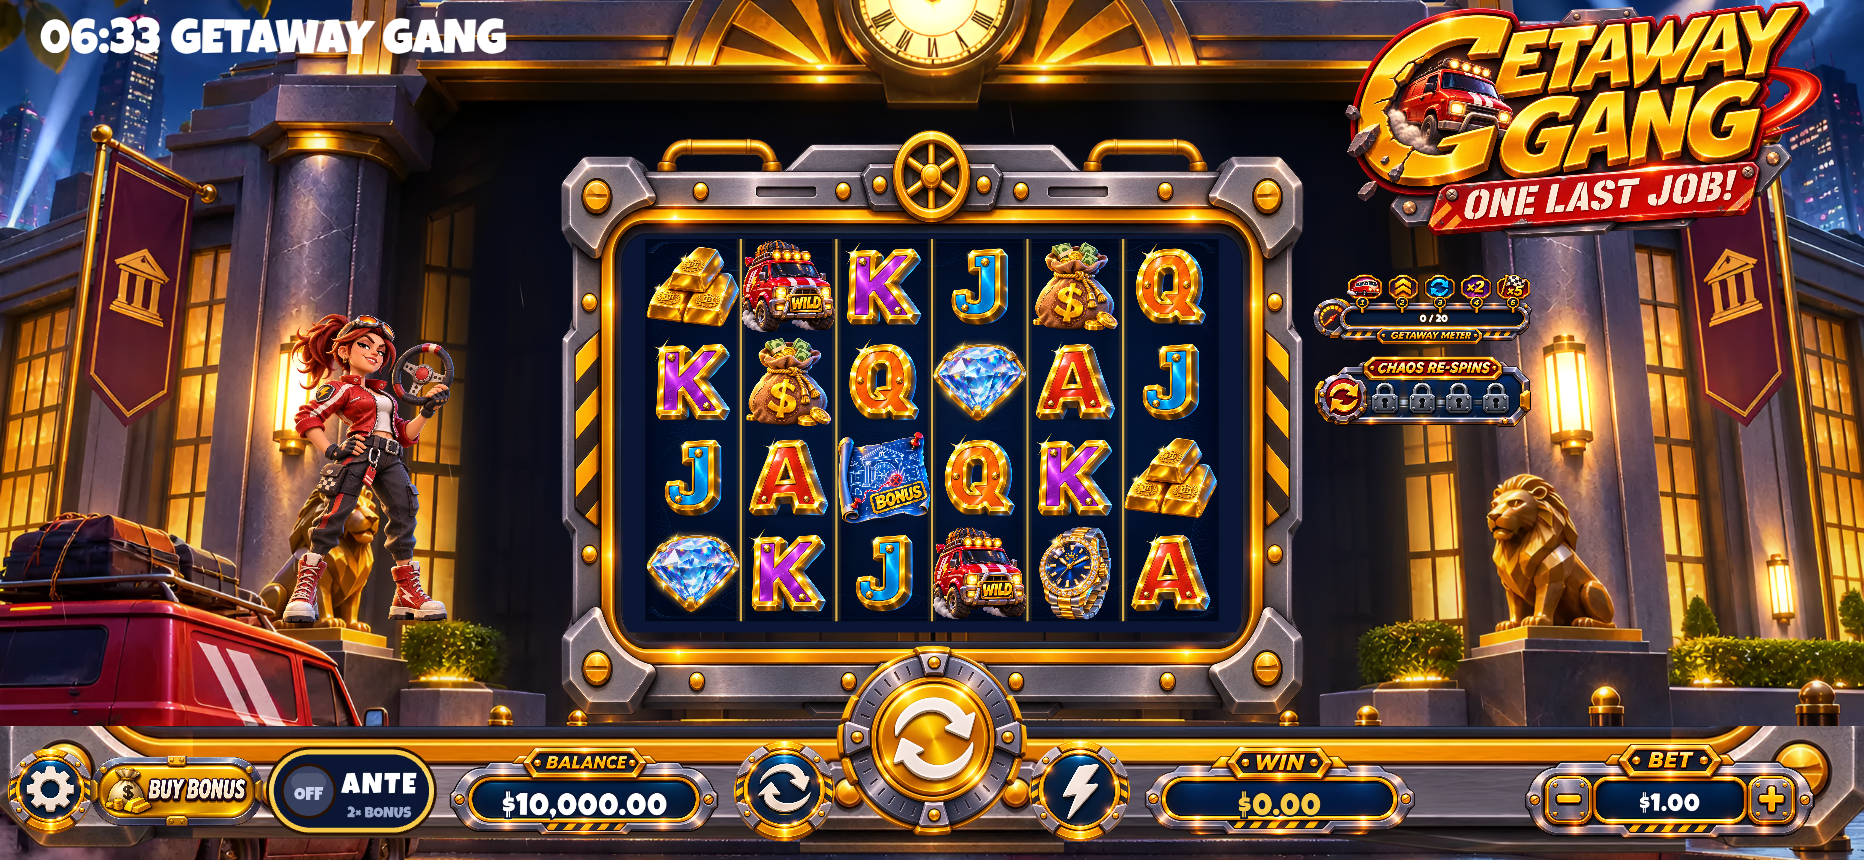
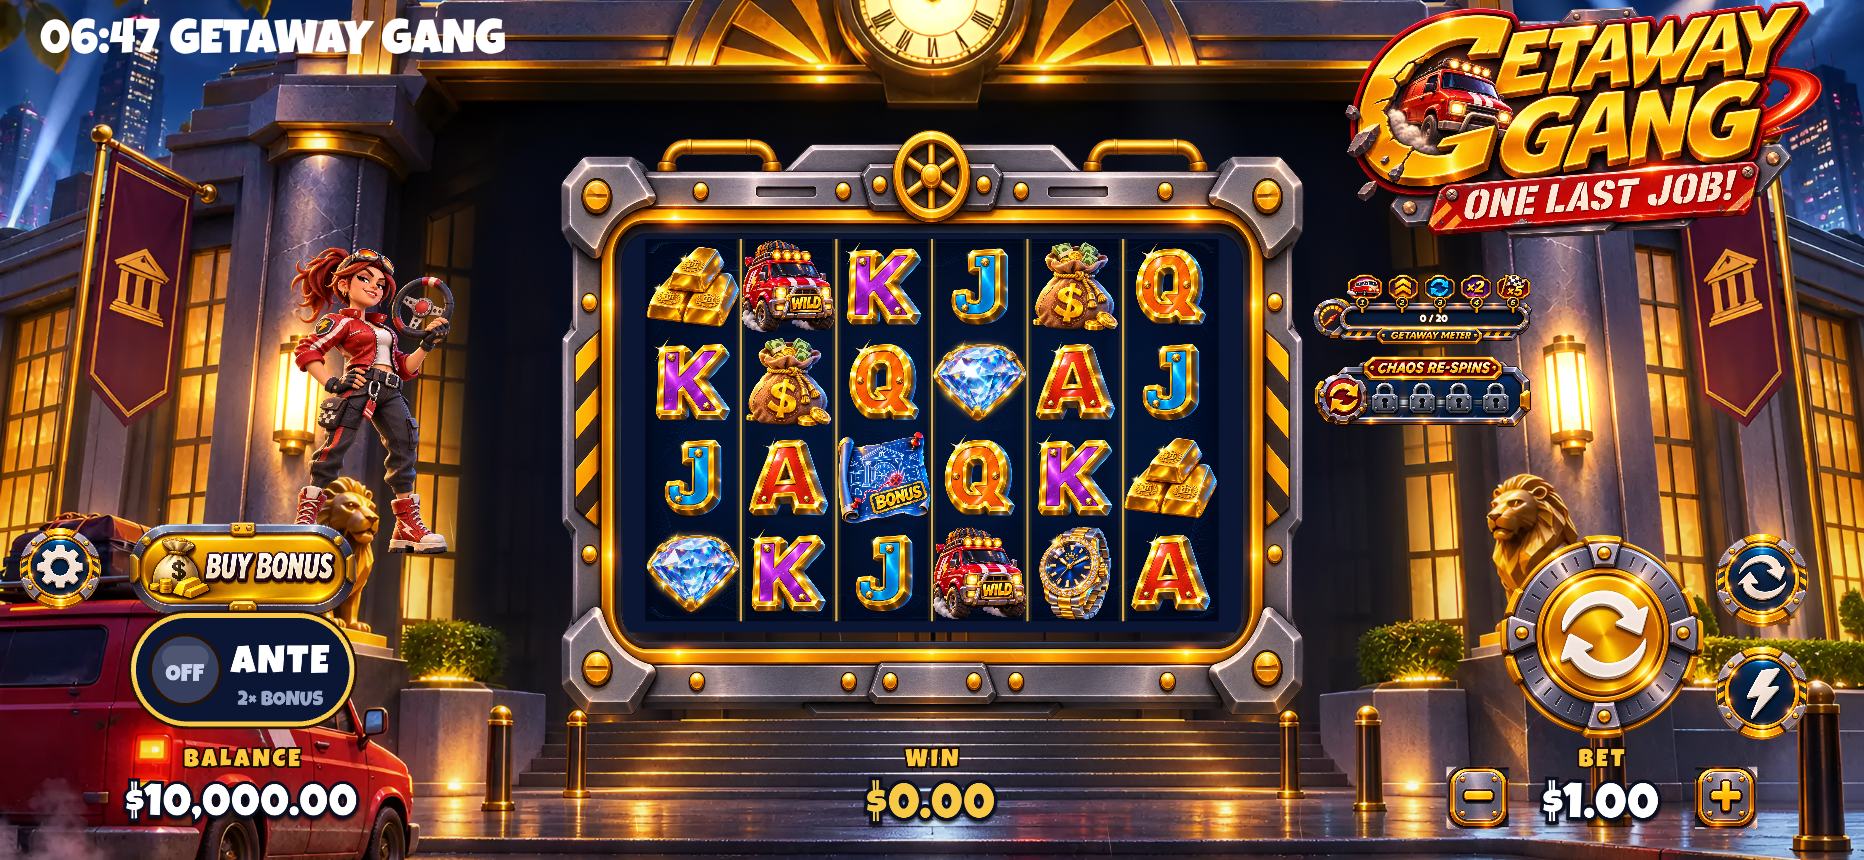
Bet controls as corner clusters (layout after Meta Gaming's Swamp King)
No rail across the screen: the reels and art keep the full height. Desktop/landscape: left corner
settings, Buy Bonus, ANTE, BALANCE; right corner SPIN with autoplay/turbo stacked, BET with -/+;
WIN under the reels. Portrait: Buy Bonus/ANTE left, SPIN cluster right, BALANCE | WIN | BET row
(buttons still fold away in the bonus; free-spin counter in the middle). Values drawn plain
(small gold label over the amount, no plate). Only the arrangement follows the reference: all art
is the game's own. Crew mascot raised clear of the left cluster.

Claude-Session: https://claude.ai/code/session_016UNRkfZFjaADWyy4kQzaUS

Changed region(s): [[0.0, 0.2721, 1.0, 0.9977], [0.0622, 0.0302, 0.28, 0.0605], [0.4979, 0.4233, 0.529, 0.4535]]

diff --git a/frontend/getaway_gang/src/components/GGLayoutPortrait.svelte b/frontend/getaway_gang/src/components/GGLayoutPortrait.svelte
@@ -20,9 +20,7 @@
 	import type { LayoutUiProps } from 'components-ui-pixi/src/types';
 	import { getContext } from 'components-ui-pixi/src/context';
 	import { UI_BASE_SIZE } from 'components-ui-pixi/src/constants';
-	import GGConsole from './GGConsole.svelte';
 	import ButtonAnte from './ButtonAnte.svelte';
-	import { BET_ZONE } from '../game/betConsole';
 
 	const props: LayoutUiProps = $props();
 	const context = getContext();
@@ -48,11 +46,13 @@
 
 	const std = $derived(context.stateLayoutDerived.mainLayoutStandard());
 	const cx = $derived(std.width * 0.5);
-	const RAIL_H = 134;
-	// clear of the phone's home indicator / rounded corners
-	const railY = $derived(std.height - RAIL_H * 0.5 - 46);
-	const railW = $derived(Math.max(1080, context.stateLayoutDerived.canvasSizes().width / std.scale + 40));
-	const BET_W = 500;
+	// corner clusters (layout after Meta Gaming's Swamp King), y measured up from the bottom edge (standard px)
+	const Q = {
+		menuX: 70, menuD: 100, leftX: 300, buyY: 560, buyS: 1.45, anteY: 400, anteW: 300,
+		spinX: 300, spinY: 470, spinD: 290, sideX: 100, sideDY: 100, sideD: 120,
+		balX: 200, valueY: 140, valueW: 330, arrowDX: 140, arrowD: 72,
+	};
+	const railY = $derived(std.height - Q.buyY);
 	const s = (d: number, base = UI_BASE_SIZE) => d / base;
 
 	let drawerButtonFadeComplete = $state(() => {});
@@ -94,63 +94,51 @@
 </Container>
 
 <MainContainer standard alignVertical="bottom">
-	<!-- drawer: folds away during the bonus like the SDK layout -->
+	<!-- drawer: the buttons fold away during the bonus like the SDK layout -->
 	<Container y={drawerTween.current}>
-		<!-- top row, symmetric around SPIN: settings · autoplay · SPIN · turbo · paytable -->
-		<Container x={cx - 412} y={railY - 410} scale={s(118)}>
+		<!-- LEFT: settings · Buy Bonus · ANTE -->
+		<Container x={Q.menuX} y={std.height - Q.buyY} scale={s(Q.menuD)}>
 			{@render props.buttonMenu({ anchor: 0.5 })}
 		</Container>
-		<Container x={cx - 218} y={railY - 410} scale={s(146)}>
-			{@render props.buttonAutoSpin({ anchor: 0.5 })}
-		</Container>
-		<Container x={cx} y={railY - 425} scale={s(256, UI_BASE_SIZE * 1.12)}>
-			{@render props.buttonBet({ anchor: 0.5 })}
-		</Container>
-		<Container x={cx + 218} y={railY - 410} scale={s(146)}>
-			{@render props.buttonTurbo({ anchor: 0.5 })}
-		</Container>
-		<Container x={cx + 412} y={railY - 410} scale={s(118)}>
-			{@render props.buttonPayTable({ anchor: 0.5 })}
-		</Container>
-		<Container x={cx - 262} y={railY - 190}>
-			{@render props.amountBalance({ stacked: true, width: 470 } as never)}
-		</Container>
-	</Container>
-
-	<Container y={Math.min(drawerTween.current, 350)}>
-		<Container x={cx + 262} y={railY - 190}>
-			{@render props.amountWin({ stacked: true, width: 470 } as never)}
-		</Container>
-	</Container>
-</MainContainer>
-
-<MainContainer standard alignVertical="bottom">
-	<GGConsole x={cx} y={railY} width={railW} />
-	{#if stateUi.freeSpinCounterShow}
-		<Container x={cx} y={railY - 10}>
-			<LabelFreeSpinCounter stacked />
-		</Container>
-	{:else}
-		<Container x={cx} y={railY}>
-			{@render props.amountBet({ stacked: true, width: BET_W } as never)}
-			<Container x={-BET_W * BET_ZONE.dx} y={BET_W * BET_ZONE.dy} scale={s(BET_W * BET_ZONE.size)}>
-				{@render props.buttonDecrease({ anchor: 0.5 })}
-			</Container>
-			<Container x={BET_W * BET_ZONE.dx} y={BET_W * BET_ZONE.dy} scale={s(BET_W * BET_ZONE.size)}>
-				{@render props.buttonIncrease({ anchor: 0.5 })}
-			</Container>
-		</Container>
-	{/if}
-
-	<!-- bottom row outside the bonus: ANTE · BET · Buy Bonus (in the bonus: free-spin counter + drawer button) -->
-	{#if !stateUi.freeSpinCounterShow}
-		<Container x={cx - 392} y={railY}>
-			<ButtonAnte width={208} />
-		</Container>
-		<Container x={cx + 394} y={railY} scale={0.86}>
+		<Container x={Q.leftX} y={std.height - Q.buyY} scale={Q.buyS}>
 			{@render props.buttonBuyBonus({ anchor: 0.5 })}
 		</Container>
+		<Container x={Q.leftX - 60} y={std.height - Q.anteY}>
+			<ButtonAnte width={Q.anteW} />
+		</Container>
+		<!-- RIGHT: SPIN with autoplay / turbo stacked beside it, paytable under them -->
+		<Container x={std.width - Q.spinX} y={std.height - Q.spinY} scale={s(Q.spinD, UI_BASE_SIZE * 1.12)}>
+			{@render props.buttonBet({ anchor: 0.5 })}
+		</Container>
+		<Container x={std.width - Q.sideX} y={std.height - Q.spinY - Q.sideDY} scale={s(Q.sideD)}>
+			{@render props.buttonAutoSpin({ anchor: 0.5 })}
+		</Container>
+		<Container x={std.width - Q.sideX} y={std.height - Q.spinY + Q.sideDY} scale={s(Q.sideD)}>
+			{@render props.buttonTurbo({ anchor: 0.5 })}
+		</Container>
+	</Container>
+
+	<!-- bottom row: BALANCE · WIN · BET (plain values) -->
+	<Container x={Q.balX} y={std.height - Q.valueY}>
+		{@render props.amountBalance({ stacked: true, width: Q.valueW, plain: true } as never)}
+	</Container>
+	<Container x={cx} y={std.height - Q.valueY}>
+		{@render props.amountWin({ stacked: true, width: Q.valueW, plain: true } as never)}
+	</Container>
+	{#if stateUi.freeSpinCounterShow}
+		<Container x={cx} y={std.height - Q.spinY}>
+			<LabelFreeSpinCounter stacked />
+		</Container>
 	{/if}
+	<Container x={std.width - Q.balX} y={std.height - Q.valueY}>
+		{@render props.amountBet({ stacked: true, width: Q.valueW, plain: true } as never)}
+		<Container x={-Q.arrowDX} y={Q.valueW * 0.06} scale={s(Q.arrowD)}>
+			{@render props.buttonDecrease({ anchor: 0.5 })}
+		</Container>
+		<Container x={Q.arrowDX} y={Q.valueW * 0.06} scale={s(Q.arrowD)}>
+			{@render props.buttonIncrease({ anchor: 0.5 })}
+		</Container>
+	</Container>
 
 	<!-- drawer button -->
 	<FadeContainer
@@ -159,7 +147,7 @@
 		oncomplete={drawerButtonFadeComplete}
 		y={drawerButtonTween.current}
 	>
-		<Container x={cx + 455} y={railY - 4}>
+		<Container x={std.width - Q.sideX} y={std.height - Q.spinY}>
 			<ButtonDrawer disabled={!stateUi.drawerButtonShow} anchor={0.5} />
 		</Container>
 	</FadeContainer>
@@ -180,13 +168,13 @@
 	/>
 
 	<MainContainer standard alignVertical="bottom">
-		<Container x={cx - 420} y={railY - 410}>
+		<Container x={Q.menuX} y={railY}>
 			{#each [props.buttonPayTable, props.buttonGameRules, props.buttonSettings, props.buttonSoundSwitch] as button, i}
-				<Container y={-(4 - i) * 150} scale={s(120)}>
+				<Container y={-(4 - i) * 120} scale={s(Q.menuD)}>
 					{@render button({ anchor: 0.5 })}
 				</Container>
 			{/each}
-			<Container scale={s(120)}>
+			<Container scale={s(Q.menuD)}>
 				{@render props.buttonMenuClose({ anchor: 0.5 })}
 			</Container>
 		</Container>

diff --git a/frontend/getaway_gang/src/components/GGLayoutDesktop.svelte b/frontend/getaway_gang/src/components/GGLayoutDesktop.svelte
@@ -13,20 +13,21 @@
 	import { getContext } from 'components-ui-pixi/src/context';
 	import { UI_BASE_SIZE } from 'components-ui-pixi/src/constants';
 	import type { LayoutUiProps } from 'components-ui-pixi/src/types';
-	import GGConsole from './GGConsole.svelte';
 	import ButtonAnte from './ButtonAnte.svelte';
-	import { BET_ZONE } from '../game/betConsole';
 
 	const props: LayoutUiProps = $props();
 	const context = getContext();
 	const std = $derived(context.stateLayoutDerived.mainLayoutStandard());
-	// one baseline across the rail, laid out on the 1920-wide design (x centres, standard px) so nothing overlaps:
-	// settings · Buy Bonus · ANTE | BALANCE | autoplay · SPIN · turbo | WIN | BET (−/+ on its ends).
-	// BALANCE / WIN / BET share the panel art's aspect, so equal widths give equal heights.
-	const DESK = { menu: 52, buy: 182, buyS: 0.7, ante: 362, anteW: 176, bal: 602, plateW: 280, side: 152, sideD: 104, spinD: 196, win: 1318, betW: 300, smallD: 88 };
-	const TOUCH = DESK; // touch screens get the same layout scaled up (f, below)
-	const P = $derived(context.stateLayoutDerived.layoutType() === 'desktop' ? DESK : TOUCH);
-
+	// corner clusters beside the reels (layout after Meta Gaming's Swamp King): no rail across the screen.
+	// x positions on the 1920 design width; y measured up from the bottom edge (standard px)
+	const L = {
+		menuX: 62, menuY: 300, menuD: 84,
+		leftX: 250, buyY: 300, buyS: 0.92, anteY: 196, anteW: 236,
+		valueY: 82, valueW: 300,
+		spinY: 230, spinD: 210, sideDX: 165, sideDY: 58, sideD: 96,
+		arrowD: 64, betArrowDX: 128,
+	};
+	const P = { menu: L.menuX, smallD: L.menuD };
 	const RAIL_H = 134;
 	// the rail runs edge to edge of the screen, wider than the 1920 design width on wide screens
 	const screenW = $derived(context.stateLayoutDerived.canvasSizes().width / std.scale);
@@ -37,7 +38,7 @@
 	const cx = $derived(std.width * 0.5);
 	// SDK buttons are UI_BASE_SIZE wide (SPIN 1.12×): scale a button to a diameter
 	const s = (d: number, base = UI_BASE_SIZE) => d / base;
-	const betX = $derived(std.width - 50 - P.betW * 0.5);
+	const rightX = $derived(std.width - 270);
 </script>
 
 <Container x={20}>
@@ -52,49 +53,41 @@
 	<!-- whole console scaled by f around the bottom centre -->
 	<Container x={cx} y={std.height} scale={f}>
 	<Container x={-cx} y={-std.height}>
-	<!-- the rail -->
-	<GGConsole x={cx} y={railY} width={railW} />
-
-	<!-- left: settings menu + Buy Bonus -->
-	<Container x={P.menu} y={railY} scale={s(P.smallD)}>
+	<!-- LEFT corner: settings · Buy Bonus · ANTE · BALANCE -->
+	<Container x={L.menuX} y={std.height - L.menuY} scale={s(L.menuD)}>
 		{@render props.buttonMenu({ anchor: 0.5 })}
 	</Container>
-	<Container x={P.buy} y={railY} scale={P.buyS}>
+	<Container x={L.leftX} y={std.height - L.buyY} scale={L.buyS}>
 		{@render props.buttonBuyBonus({ anchor: 0.5 })}
 	</Container>
-	<!-- ante toggle: a pill on the rail next to Buy Bonus -->
-	<Container x={P.ante} y={railY}>
-		<ButtonAnte width={P.anteW} />
+	<Container x={L.leftX} y={std.height - L.anteY}>
+		<ButtonAnte width={L.anteW} />
+	</Container>
+	<Container x={L.leftX} y={std.height - L.valueY}>
+		{@render props.amountBalance({ stacked: true, width: L.valueW, plain: true } as never)}
 	</Container>
 
-	<!-- balance -->
-	<Container x={P.bal} y={railY}>
-		{@render props.amountBalance({ stacked: true, width: P.plateW } as never)}
+	<!-- centre: WIN under the reels -->
+	<Container x={cx} y={std.height - L.valueY}>
+		{@render props.amountWin({ stacked: true, width: L.valueW, plain: true } as never)}
 	</Container>
 
-	<!-- spin cluster: the big SPIN sits raised on the rail's centre plate -->
-	<Container x={cx - P.side} y={railY} scale={s(P.sideD)}>
-		{@render props.buttonAutoSpin({ anchor: 0.5 })}
-	</Container>
-	<Container x={cx} y={railY - 52} scale={s(P.spinD, UI_BASE_SIZE * 1.12)}>
+	<!-- RIGHT corner: SPIN with autoplay / turbo stacked beside it · BET with − / + -->
+	<Container x={rightX} y={std.height - L.spinY} scale={s(L.spinD, UI_BASE_SIZE * 1.12)}>
 		{@render props.buttonBet({ anchor: 0.5 })}
 	</Container>
-	<Container x={cx + P.side} y={railY} scale={s(P.sideD)}>
+	<Container x={rightX + L.sideDX} y={std.height - L.spinY - L.sideDY} scale={s(L.sideD)}>
+		{@render props.buttonAutoSpin({ anchor: 0.5 })}
+	</Container>
+	<Container x={rightX + L.sideDX} y={std.height - L.spinY + L.sideDY} scale={s(L.sideD)}>
 		{@render props.buttonTurbo({ anchor: 0.5 })}
 	</Container>
-
-	<!-- win -->
-	<Container x={P.win} y={railY}>
-		{@render props.amountWin({ stacked: true, width: P.plateW } as never)}
-	</Container>
-
-	<!-- bet plate, -/+ on its own ends -->
-	<Container x={betX} y={railY}>
-		{@render props.amountBet({ stacked: true, width: P.betW } as never)}
-		<Container x={P.betW * BET_ZONE.dx * -1} y={P.betW * BET_ZONE.dy} scale={s(P.betW * BET_ZONE.size)}>
+	<Container x={rightX} y={std.height - L.valueY}>
+		{@render props.amountBet({ stacked: true, width: L.valueW, plain: true } as never)}
+		<Container x={-L.betArrowDX} y={L.valueW * 0.06} scale={s(L.arrowD)}>
 			{@render props.buttonDecrease({ anchor: 0.5 })}
 		</Container>
-		<Container x={P.betW * BET_ZONE.dx} y={P.betW * BET_ZONE.dy} scale={s(P.betW * BET_ZONE.size)}>
+		<Container x={L.betArrowDX} y={L.valueW * 0.06} scale={s(L.arrowD)}>
 			{@render props.buttonIncrease({ anchor: 0.5 })}
 		</Container>
 	</Container>
@@ -117,7 +110,7 @@
 	/>
 	<!-- menu column rises from the settings button -->
 	<MainContainer standard alignVertical="bottom">
-		<Container x={cx + (P.menu - cx) * f} y={std.height + (railY - 6 - std.height) * f} scale={f}>
+		<Container x={cx + (P.menu - cx) * f} y={std.height - L.menuY * f} scale={f}>
 			{#each [props.buttonPayTable, props.buttonGameRules, props.buttonSettings, props.buttonSoundSwitch] as button, i}
 				<Container y={-(4 - i) * (P.smallD + 18)} scale={s(P.smallD)}>
 					{@render button({ anchor: 0.5 })}

diff --git a/frontend/getaway_gang/src/gg-overrides/GGLabel.svelte b/frontend/getaway_gang/src/gg-overrides/GGLabel.svelte
@@ -7,7 +7,8 @@
 	import { Container, Sprite, Text } from 'pixi-svelte';
 	import { GG_LAYOUT } from '../game/ggAssets';
 
-	type Props = { kind: 'BALANCE' | 'WIN' | 'BET'; value: string; width?: number };
+	/** plain: no plate, a small gold label over the value (corner-cluster layout) */
+	type Props = { kind: 'BALANCE' | 'WIN' | 'BET'; value: string; width?: number; plain?: boolean };
 	const props: Props = $props();
 	const key = $derived((props.kind === 'BET' ? 'UI-BET-UNIT' : `UI-${props.kind}-PANEL`) as 'UI-BET-UNIT' | 'UI-BALANCE-PANEL' | 'UI-WIN-PANEL');
 	const W = $derived(props.width ?? (props.kind === 'BET' ? 400 : 330));
@@ -20,6 +21,13 @@
 	const fontSize = $derived(Math.min(baseSize, (W * valueW) / Math.max(1, props.value.length * 0.62)));
 </script>
 
+{#if props.plain}
+	{@const vs = Math.min(W * 0.17, (W * 0.95) / Math.max(1, props.value.length * 0.62))}
+	<Container>
+		<Text anchor={0.5} y={-W * 0.085} text={props.kind} style={{ fontFamily: 'Luckiest Guy, sans-serif', fontSize: W * 0.085, fill: 0xffc93c, stroke: { color: 0x1a0d00, width: 4 }, letterSpacing: 3 }} />
+		<Text anchor={0.5} y={W * 0.06} text={props.value} style={{ fontFamily: 'Luckiest Guy, sans-serif', fontSize: vs, fill: props.kind === 'WIN' ? 0xf7c947 : 0xffffff, stroke: { color: 0x0a0f22, width: Math.max(4, vs * 0.14) }, dropShadow: { color: 0x000000, alpha: 0.6, distance: 3, angle: Math.PI / 2, blur: 2 }, letterSpacing: 1 }} />
+	</Container>
+{:else}
 <Container>
 	<Sprite {key} anchor={0.5} width={W} height={H} />
 	<Container y={H * (valueY - 0.5)}>
@@ -36,3 +44,4 @@
 		/>
 	</Container>
 </Container>
+{/if}

diff --git a/frontend/getaway_gang/src/gg-overrides/LabelBet.svelte b/frontend/getaway_gang/src/gg-overrides/LabelBet.svelte
@@ -12,6 +12,7 @@
 	type Props = {
 		stacked?: boolean;
 		width?: number;
+		plain?: boolean;
 	};
 
 	const props: Props = $props();
@@ -33,5 +34,5 @@
 	onpointerup={onpress}
 	hitArea={new Rectangle(-(props.width ?? 400) * 0.23, -(props.width ?? 400) * 0.1, (props.width ?? 400) * 0.46, (props.width ?? 400) * 0.25)}
 >
-	<GGLabel kind="BET" {value} width={props.width} />
+	<GGLabel kind="BET" {value} width={props.width} plain={props.plain} />
 </Container>

diff --git a/frontend/getaway_gang/src/gg-overrides/LabelBalance.svelte b/frontend/getaway_gang/src/gg-overrides/LabelBalance.svelte
@@ -11,6 +11,7 @@
 	type Props = {
 		stacked?: boolean;
 		width?: number;
+		plain?: boolean;
 	};
 
 	const props: Props = $props();
@@ -22,4 +23,4 @@
 	});
 </script>
 
-<GGLabel kind="BALANCE" {value} width={props.width} />
+<GGLabel kind="BALANCE" {value} width={props.width} plain={props.plain} />

diff --git a/frontend/getaway_gang/src/gg-overrides/LabelWin.svelte b/frontend/getaway_gang/src/gg-overrides/LabelWin.svelte
@@ -11,6 +11,7 @@
 	type Props = {
 		stacked?: boolean;
 		width?: number;
+		plain?: boolean;
 	};
 
 	const props: Props = $props();
@@ -22,4 +23,4 @@
 	});
 </script>
 
-<GGLabel kind="WIN" {value} width={props.width} />
+<GGLabel kind="WIN" {value} width={props.width} plain={props.plain} />

diff --git a/frontend/getaway_gang/src/components/CrewMascot.svelte b/frontend/getaway_gang/src/components/CrewMascot.svelte
@@ -32,7 +32,7 @@
 		<LivePose
 			id={mascot.crew}
 			x={left / 2 + 10}
-			y={layout.y + 40 + height / 2}
+			y={layout.y - 30 + height / 2}
 			{height}
 			{action}
 			nonce={mascot.nonce}
